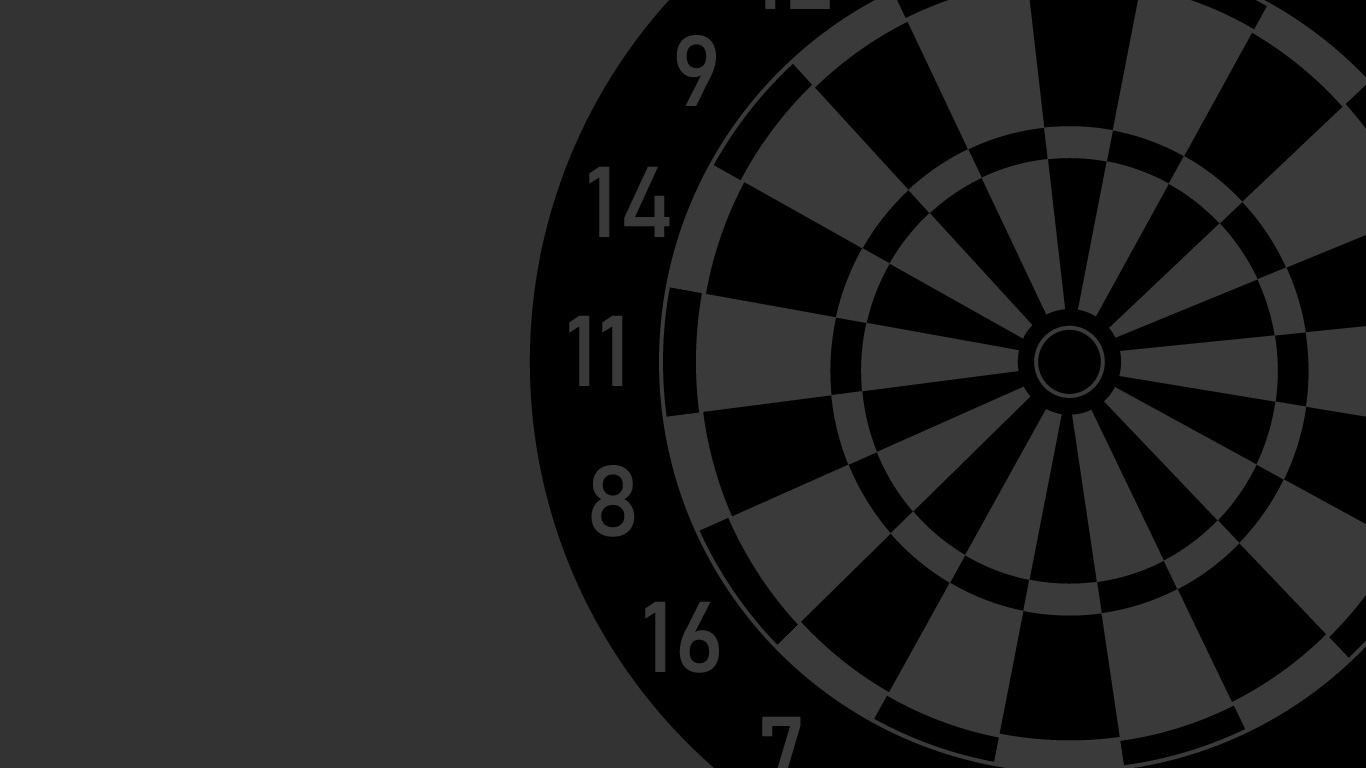
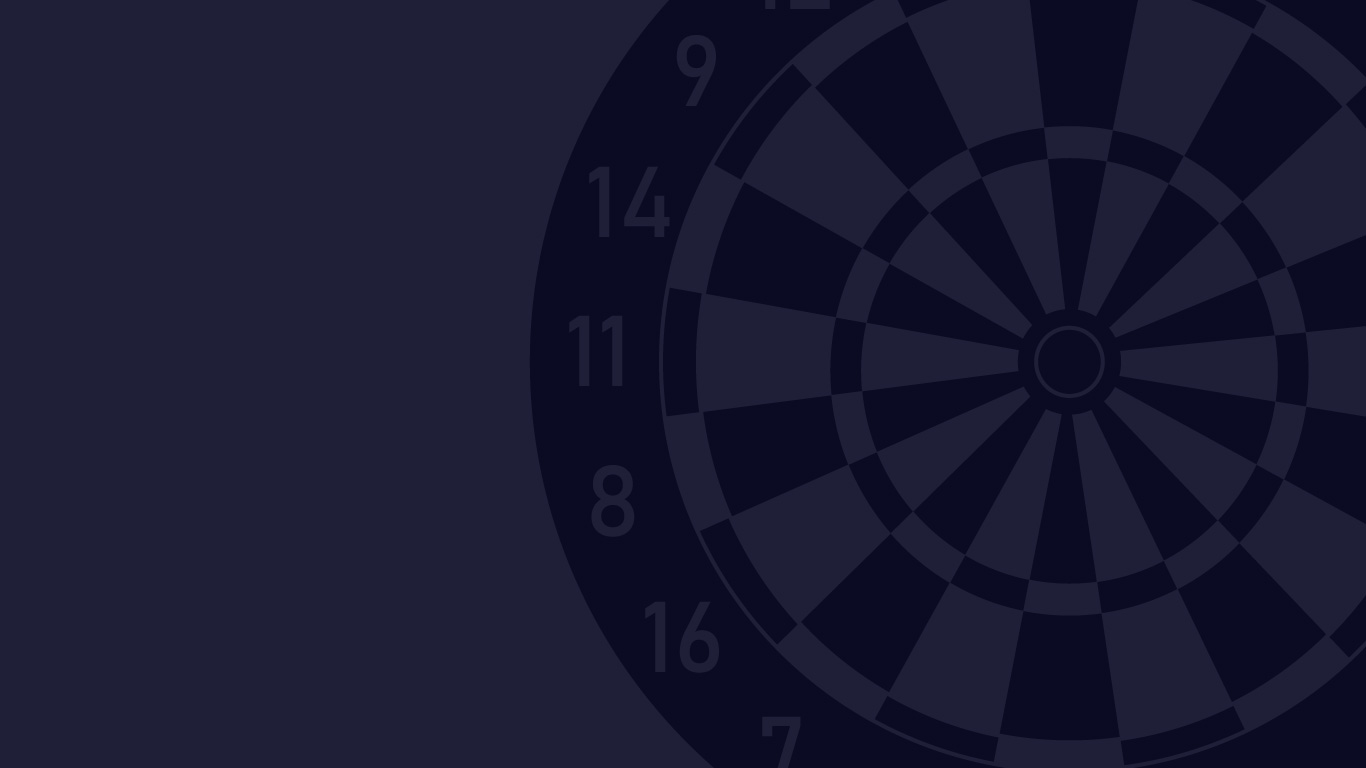
changed colour pallete
for the soul

diff --git a/Darts-Phoebe/phoebe.html b/Darts-Phoebe/phoebe.html
@@ -33,7 +33,7 @@
     <header class="darts">
       <div class="heroText">
         <h1>Darts</h1>
-        <p>Game context, Very short introduction of keywords</p>
+        <p>Casual or Competitive + 2+ Players + Pub Game</p>
         <article>
           <a class="jump" rel="noopener" href="#rulesOfGameplay">Rules</a>
           <a class="jump" rel="noopener" href="#scoring">Scoring</a>
@@ -44,7 +44,7 @@
     </header>
     <main>
       <section class="dsect">
-        <h2>Darts: Where do I start?</h2>
+        <h2>Darts, Where do I start?</h2>
         <p>Description of Darts, Overall context yada yada yad yada yada</p>
       </section>
       <a id="rulesOfGameplay">

diff --git a/Darts-Phoebe/phoebetemp.css b/Darts-Phoebe/phoebetemp.css
@@ -93,7 +93,7 @@ footer.home {
   
   /* linked nav code */
 .topnav {
-    background-color: rgb(62, 16, 16);
+    background-color: rgb(11, 11, 35);
     overflow: hidden;
     font-family: "Rubik", sans-serif;
     position: fixed;
@@ -150,7 +150,9 @@ div.heroText {
 }
 
 .dsect > h2 {
-  font-size: 16pt;
+  color: rgb(11, 11, 35);
+  font-size: 30pt;
+  margin: 0;
 }
 
 .heroText > p {
@@ -185,7 +187,7 @@ section.dsect {
 
 
 .botnav {
-        background-color: rgb(62, 16, 16);
+        background-color: rgb(11, 11, 35);
         overflow: hidden;
         justify-content: left;
         display: flex;
